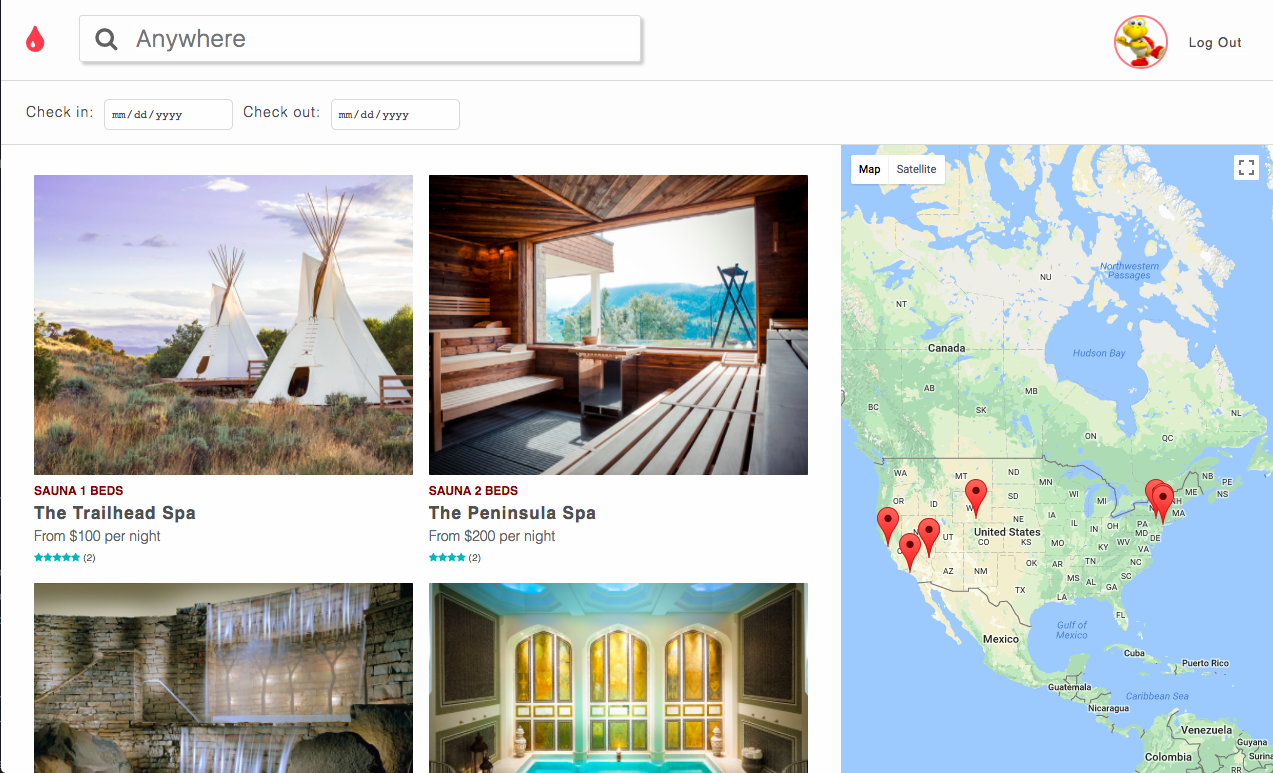
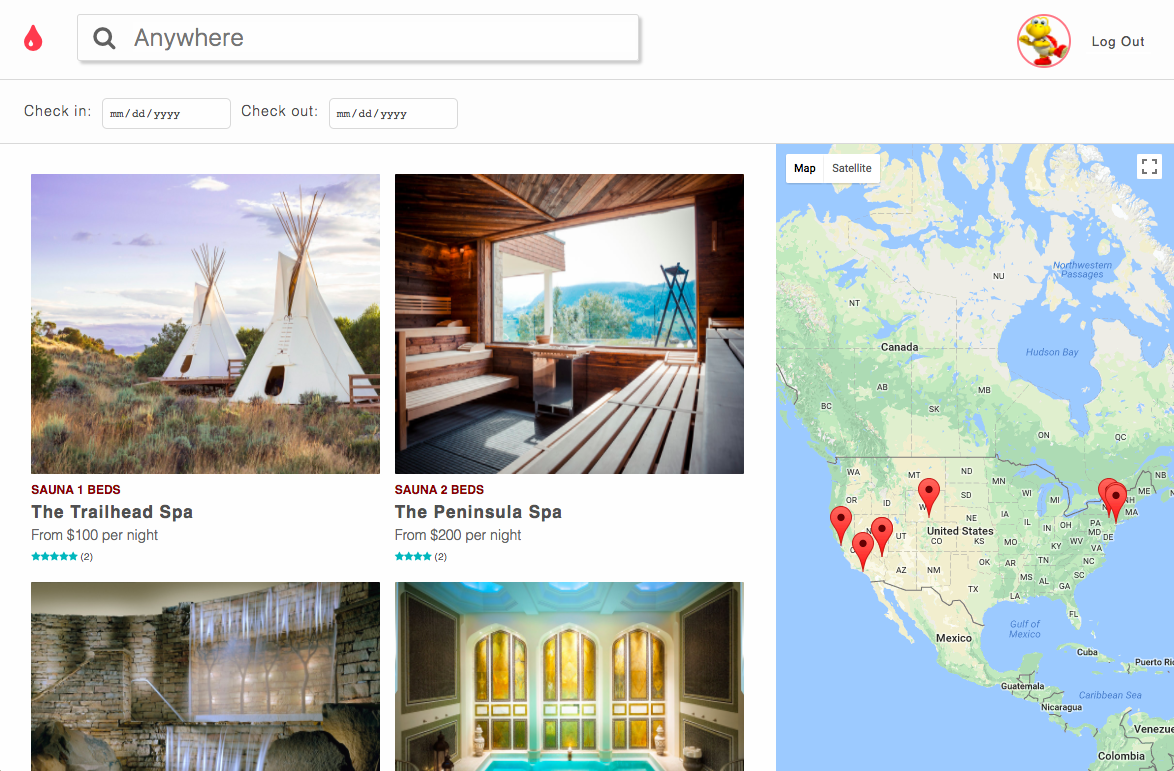
Work on README.md

diff --git a/frontend/components/app.jsx b/frontend/components/app.jsx
@@ -33,7 +33,7 @@ const App = () => (
       <ProtectedRoute path="/user/:userId" component={UserShowContainer} />
       <ProtectedRoute path="/listings/:listingId/reviews" component={ReviewFormContainer} />
       <ProtectedRoute path="/listings/:listingId" component={ListingShowContainer} />
-      <ProtectedRoute path="/listings" component={SearchContainer} />
+      <Route path="/listings" component={SearchContainer} />
     </Switch>
   </div>
 );

diff --git a/README.md b/README.md
@@ -18,8 +18,9 @@ Here is a link to the live site : https://steambnb-clone.herokuapp.com/#/
 
 ## Features
   * User Authentication
+    * ![login](https://user-images.githubusercontent.com/12862833/32382972-1ce62b18-c08d-11e7-9e61-0fa568437153.png)
   * Listings     
-    * ![listingsindex](https://user-images.githubusercontent.com/12862833/32382526-e0338fae-c08b-11e7-9b3c-8633350cfa2e.png)
+    * ![listingsindex](https://user-images.githubusercontent.com/12862833/32382913-ea8d2a40-c08c-11e7-9b9c-e074c16fe1a6.png)
   * Bookings
     * ![listingsshow](https://user-images.githubusercontent.com/12862833/32382593-129a1260-c08c-11e7-8d3f-6cce6ee0c7f2.png)
   * Reviews
